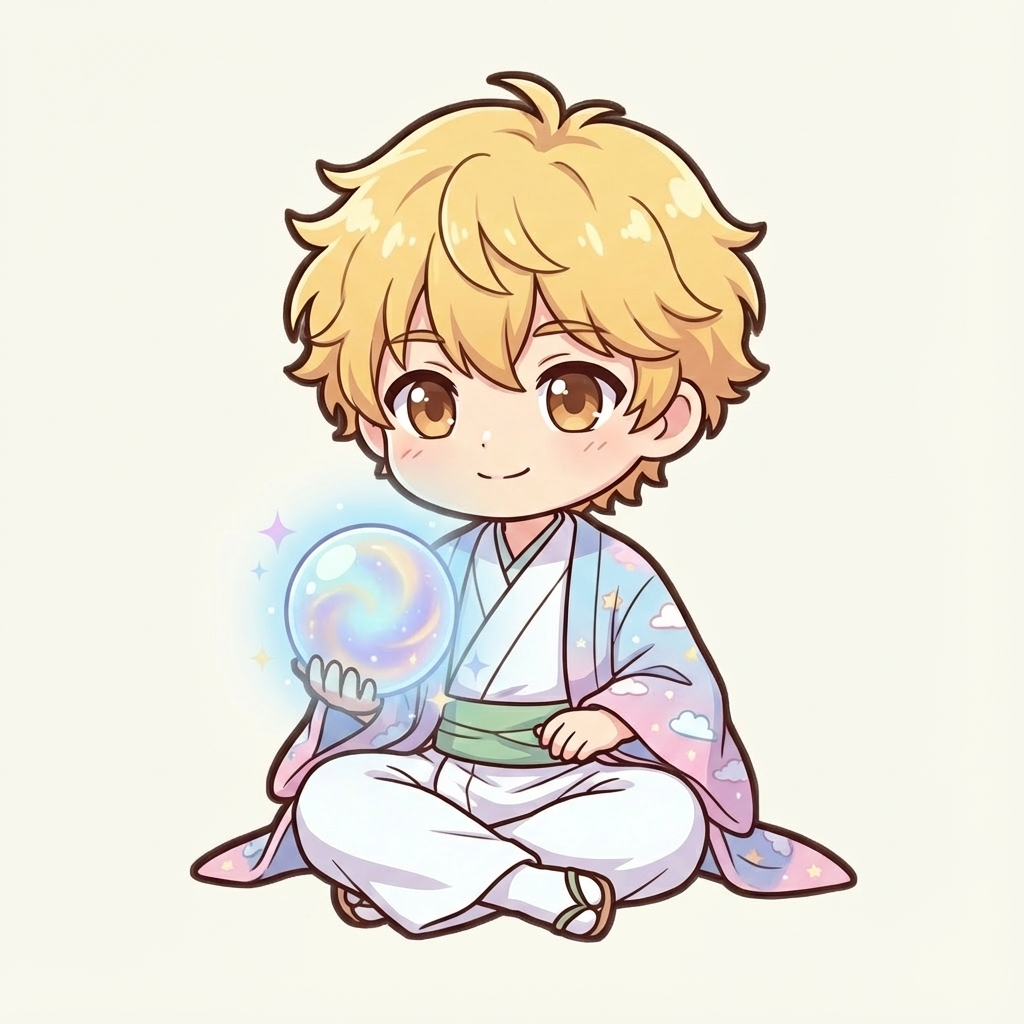
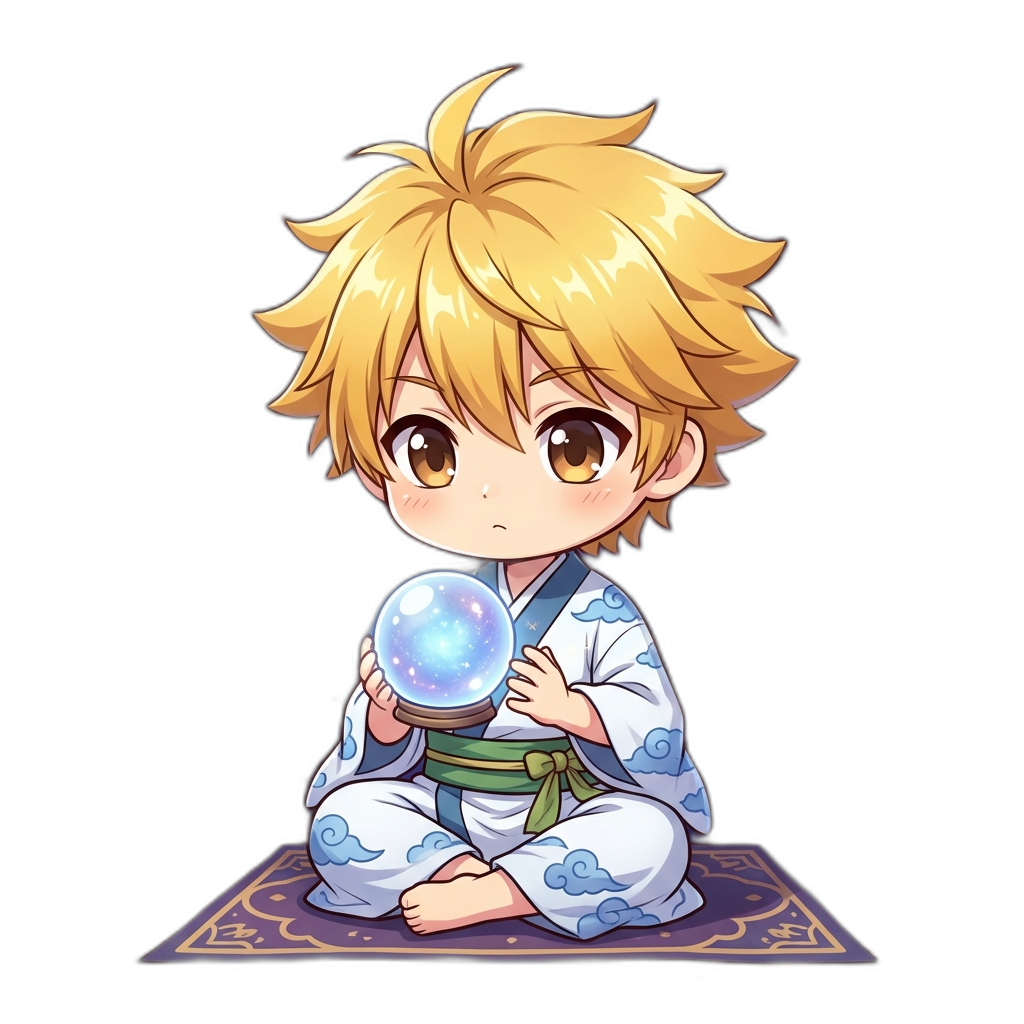
feat: 透過背景の金髪きんまん先生WebPアニメーション
- NanoBanana Pro で3フレーム生成
- FAL AI rembg で背景除去（透過PNG化）
- ffmpeg で透過WebPアニメーション作成
- 紫グラデーション背景と綺麗に馴染む
- GIFより高品質な透過アニメーション

diff --git a/src/app/result/page.tsx b/src/app/result/page.tsx
@@ -1,7 +1,7 @@
 "use client";
 
 import { useState, useEffect, useCallback } from "react";
-import { motion, AnimatePresence } from "framer-motion";
+import { motion } from "framer-motion";
 import { useRouter } from "next/navigation";
 import Image from "next/image";
 import { dreamTypes } from "@/lib/dreamTypes";
@@ -56,26 +56,10 @@ interface DiagnosisResult {
 // カード生成のタイムアウト（秒）
 const CARD_GENERATION_TIMEOUT = 60;
 
-// きんまん先生の占いアニメーションコンポーネント（AI生成フレーム使用）
-const FORTUNE_FRAMES = [
-  "/animations/kinman-fortune-frame-1.png",
-  "/animations/kinman-fortune-frame-2.png",
-  "/animations/kinman-fortune-frame-3.png",
-];
-
+// きんまん先生の占いアニメーションコンポーネント（GIF使用）
 function FortuneLoadingAnimation({ progress }: { progress: number }) {
-  const [currentFrame, setCurrentFrame] = useState(0);
-
-  // フレームを1秒ごとに切り替え
-  useEffect(() => {
-    const interval = setInterval(() => {
-      setCurrentFrame((prev) => (prev + 1) % FORTUNE_FRAMES.length);
-    }, 1000);
-    return () => clearInterval(interval);
-  }, []);
-
   return (
-    <div className="relative w-full max-w-md min-h-[500px] flex flex-col items-center justify-center bg-gradient-to-b from-purple-900/60 to-indigo-900/60 rounded-2xl p-6 overflow-hidden">
+    <div className="relative w-full max-w-md min-h-[500px] flex flex-col items-center justify-center bg-gradient-to-b from-purple-900/80 to-indigo-900/80 rounded-2xl p-6 overflow-hidden">
       {/* 背景の星キラキラ */}
       {[...Array(20)].map((_, i) => (
         <motion.div
@@ -97,38 +81,42 @@ function FortuneLoadingAnimation({ progress }: { progress: number }) {
         />
       ))}
 
-      {/* きんまん先生アニメーション */}
+      {/* きんまん先生GIFアニメーション */}
       <motion.div
         className="relative"
         animate={{ y: [0, -10, 0] }}
         transition={{ duration: 3, repeat: Infinity, ease: "easeInOut" }}
       >
-        {/* AI生成フレームを切り替え表示 */}
-        <AnimatePresence mode="wait">
-          <motion.div
-            key={currentFrame}
-            initial={{ opacity: 0, scale: 0.95 }}
-            animate={{ opacity: 1, scale: 1 }}
-            exit={{ opacity: 0, scale: 1.05 }}
-            transition={{ duration: 0.3 }}
-          >
-            <Image
-              src={FORTUNE_FRAMES[currentFrame]}
-              alt="きんまん先生が占い中"
-              width={280}
-              height={280}
-              className="relative z-10"
-              priority
-            />
-          </motion.div>
-        </AnimatePresence>
+        {/* 背景のグロウエフェクト */}
+        <motion.div
+          className="absolute inset-0 rounded-full blur-xl opacity-50"
+          style={{
+            background: "radial-gradient(circle, rgba(147,112,219,0.6) 0%, rgba(147,112,219,0) 70%)",
+          }}
+          animate={{
+            scale: [1, 1.3, 1],
+            opacity: [0.3, 0.6, 0.3],
+          }}
+          transition={{ duration: 2, repeat: Infinity, ease: "easeInOut" }}
+        />
+        
+        {/* 透過WebPアニメーション */}
+        <Image
+          src="/animations/kinman-fortune.webp"
+          alt="きんまん先生が占い中"
+          width={300}
+          height={300}
+          className="relative z-10"
+          unoptimized // WebPアニメーションのため最適化を無効化
+          priority
+        />
 
         {/* 魔法のパーティクル */}
         {[...Array(8)].map((_, i) => (
           <motion.div
             key={`particle-${i}`}
             className="absolute"
-            style={{ left: "40%", top: "50%" }}
+            style={{ left: "50%", top: "50%" }}
             animate={{
               x: [0, (i % 2 === 0 ? 1 : -1) * (50 + i * 10)],
               y: [0, -80 - i * 10],
